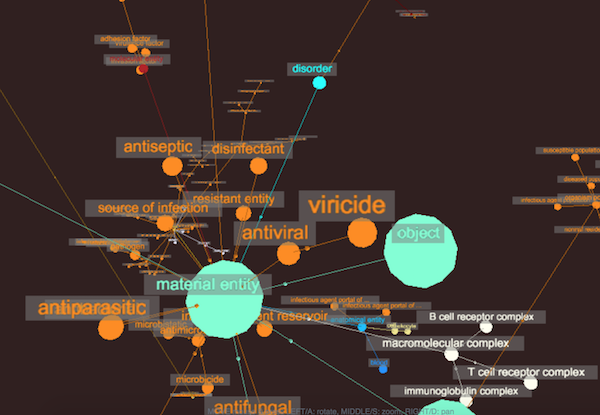
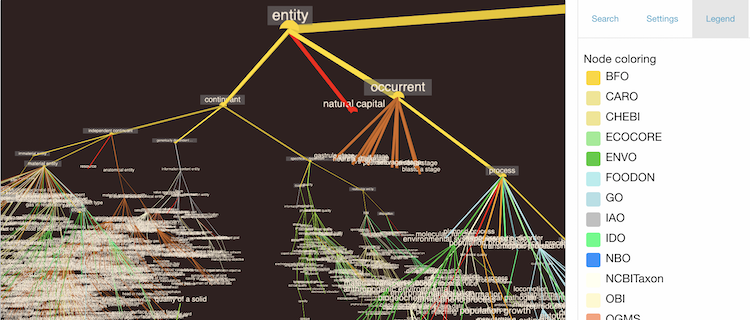
new home image; legend adjustment

diff --git a/index.html b/index.html
@@ -31,13 +31,15 @@
         <div class="large-8 cell">
           <div class="callout" style="padding:0">
             <div id="3d-graph">
-              <img src="img/introduction.png"/>
+              <img src="img/introduction.png" style="margin:15px;border:2px solid silver" />
             </div>
 
             <div style="padding:20px;">
-              <p>OntoTrek is an <a href="http://OBOFoundry.org" target="_blank">OBOFoundry.org</a> ontology terminology viewer that takes advantage of <a href="https://github.com/vasturiano/3d-force-graph/" target="_blank">WebGL 3d graph rendering software</a>. We have a few ontologies to choose from during this beta phase, some easy to load like IDO, some big ones like CLO which can only be rendered by applying filters like "wireframe", no "labels", or limiting node depth.  Some ontologies demonstrate nice organization under the Basic Formal Ontology (BFO, whose 34 nodes are big, sunny, and always in the same position), and others show an "independent streak", also illustrating the difference between taxonomic and application ontologies. </p>
+              <p>OntoTrek is an <a href="http://OBOFoundry.org" target="_blank">OBOFoundry.org</a> ontology terminology viewer that takes advantage of <a href="https://github.com/vasturiano/3d-force-graph/" target="_blank">WebGL 3d graph rendering software</a>. We have a few ontologies to choose from during this beta phase, some easy to load like AGRO and ECOCORE, and some big ones like CLO which can only be rendered by applying filters like "wireframe", no "labels", and limiting node depth.  Some ontologies demonstrate nice organization under the Basic Formal Ontology (BFO, whose 34 nodes are big, sunny, and always in the same position), and others show an independent streak which may illustrate the difference between reference and application ontologies. </p>
 
-              <p> OntoTrek displays all class-subclass relations starting from owl:Entity or BFO:0000001 entity or a specified entity that we downloaded underlying terms of.  OntoTrek doesn't draw other term relations.  (OntoTrek is actually running off of flat JSON versions of the given ontologies, generated using the <a href="https://github.com/GenEpiO/geem/blob/master/scripts/ontofetch.py" target="_blank">ontofetch.py</a> program).</p>
+              <p> OntoTrek displays all class-subclass relations starting from owl:Thing or BFO:0000001 entity.  OntoTrek doesn't draw other object relations. The program actually reads flat JSON versions of the given ontologies, generated using the <a href="https://github.com/GenEpiO/geem/blob/master/scripts/ontofetch.py" target="_blank">ontofetch.py</a> program).</p>
+
+              <p><b>To get started, select an ontology in upper right Search menu ...</b></p>
 
               <p>This software is being developed at the Hsiao Lab which is associated with the University of British Columbia Department of Pathology and Laboratory Medicine, and with the PHSA Public Health Laboratory at the British Columbia Centre For Disease Control. The project's GitHub is  <a href="https://github.com/GenEpiO/ontotrek" target="_blank">here</a>.  Contact <a href="mailto:damion.dooley@bccdc.ca">Damion Dooley</a> for more information.</p>
             </div>
@@ -154,10 +156,10 @@
                 <div class="grid-x grid-padding-x">
 
                   <div class="large-12 medium-12 cell">
-                    <i class="fi-info blue" data-tooltip class="top light-gray" tabindex="2" title="Color coding is done according to lookup tables for ontology prefixes and BFO terms as defined in js/lookup_tables.js; Select ontology to have edges colored by ontology of child node; select BFO domain to have edges colored by occurent, continuant, process, etc."></i>
+                    <i class="fi-info blue" data-tooltip tabindex="2" title="Color coding is done according to lookup tables for ontology prefixes and Basic Formal Ontology terms as defined in js/lookup_tables.js; Select ontology to have edges colored by ontology of child node; select BFO domain to have edges colored by occurent, continuant, process, etc."></i>
                     <label>Color edges by</label>
-                    <input type="radio" name="ulo_edge_coloring" value="false" id="edge_coloring_onto" checked="checked"><label for="edge_coloring_onto">ontology</label> &nbsp; &nbsp; 
-                    <input type="radio" name="ulo_edge_coloring" value="true" id="edge_coloring_bfo"><label for="edge_coloring_bfo">BFO domain</label>
+                    <input type="radio" name="ulo_edge_coloring" value="false" id="edge_coloring_onto" checked="checked"><label for="edge_coloring_onto">Term source</label> &nbsp; &nbsp; 
+                    <input type="radio" name="ulo_edge_coloring" value="true" id="edge_coloring_bfo"><label for="edge_coloring_bfo">BFO branch</label>
                   </div>
                   <!--
                   <div class="large-6 medium-6 cell">
@@ -253,7 +255,7 @@
 
             <!-- **************************** TRACE ************************ -->
             <div class="tabs-panel" id="panel_trace">
-              <p>Experimental: To visualize a disjoint axiom-related unsatisfiability error about a particular term in a given ontology that you have encountered, install the command line <a href="https://robot.obolibrary.org/" target="_blank">robot tool</a> and run the following robot command directly on that ontology to get the error explanation report. 
+              <p>Experimental tool: To visualize a disjoint axiom-related unsatisfiability error about a particular term in a given ontology that you have encountered, install the command line <a href="https://robot.obolibrary.org/" target="_blank">robot tool</a> and run the following robot command directly on that ontology to get the error explanation report. 
               <div class="callout secondary">
                 &gt; robot explain --input [YOUR ONTOLOGY FILE] --reasoner HermiT --axiom "'[PUT PROBLEM TERM'S rdfs:label HERE]' EquivalentTo owl:Nothing" --explanation output.md
               </div>

diff --git a/js/common.js b/js/common.js
@@ -349,8 +349,9 @@ function init_geem_data(rawData) {
     if (!node.deprecated || RENDER_DEPRECATED) {
       node.children = [];
       var prefix = get_term_prefix(node.id);
-      if (!(prefix in legend)) 
-        legend[prefix] = null;
+      // Track counts of each prefix
+      legend[prefix] = prefix in legend ? legend[prefix]+1 : 1;
+
       if (prefix in edge_color_mapping){
         node.color = colors[edge_color_mapping[prefix].color];
 
@@ -414,7 +415,7 @@ function init_geem_data(rawData) {
     var color = edge_color_mapping[prefix] ? edge_color_mapping[prefix].color : null;
 
     $("#node_legend").append(`<div class="legend_color" style="background-color:${color}">&nbsp;</div>
-      <div class="legend_item">${prefix}</div>
+      <div class="legend_item">${prefix} (${legend[prefix]})</div>
       <br/>`)
   }
 
@@ -427,7 +428,8 @@ function init_geem_data(rawData) {
   data.nodes.forEach((n, idx) => {top.dataLookup[n.id] = n }); 
 
   $("#edge_legend").empty()
-
+  var legend = {}
+  
   // 2nd pass does LINKS according to depth:
   for (var item in data.nodes) {
     const node = data.nodes[item];
